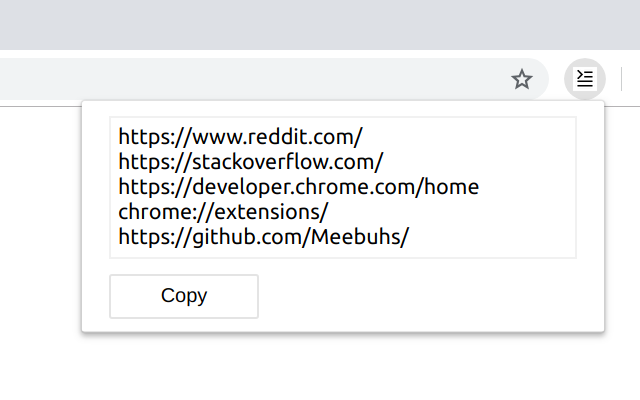
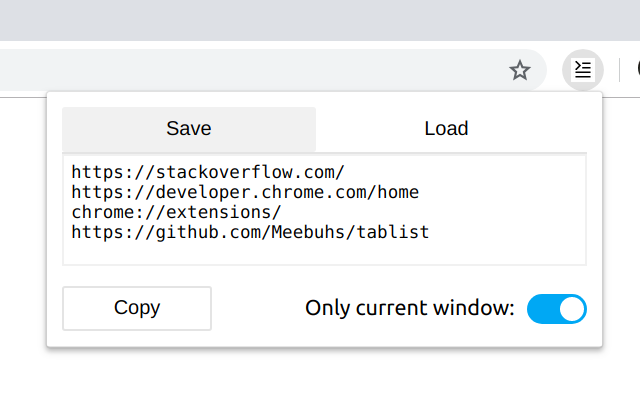
Add the ability to pull and restore tabs for multiple windows

Changed region(s): [[0.0, 0.09, 1.0, 0.9], [0.0938, 0.3, 0.9062, 0.63], [0.0, 0.24, 0.0938, 0.27]]

diff --git a/src/js/popup.js b/src/js/popup.js
@@ -1,29 +1,86 @@
 import "../css/popup.scss"
 
-const output = document.getElementById("output");
-const copyTabsPane = document.getElementById("copy-tabs");
-const loadTabsPane = document.getElementById("load-tabs");
+const output = document.getElementById("output"),
+    copyTabsPane = document.getElementById("copy-tab-pane"),
+    loadTabsPane = document.getElementById("load-tab-pane"),
+    copyTabButton = document.getElementById("copy-tab-button"),
+    loadTabButton = document.getElementById("load-tab-button"),
+    includeAllToggle = document.getElementById("include-all-toggle");
 
-// When the popup loads, populate the output with the list of urls
-window.onload = function() {
-    chrome.tabs.query({"currentWindow": true}, tabs => {
-      output.innerHTML = tabs.map(tab => tab.url).join("\n");
-
-      // Gets height on contents with a min of 60 and max of 200
-      const clampedHeight = Math.min(Math.max(60, output.scrollHeight), 200);
-      output.style.height = `${clampedHeight}px`;
-    });
-};
+const newline = "\n";
+const windowDelimiter = `${newline}---${newline}`;
 
 document.getElementById("copy").addEventListener("click", copyText);
-document.getElementById("load").addEventListener("click", loadTabs);
-document.getElementById("back-to-copy").addEventListener("click", backToCopy);
+copyTabButton.addEventListener("click", showCopyTab);
+loadTabButton.addEventListener("click", showLoadTab);
+includeAllToggle.addEventListener("click", populateOutput);
+
+// When the popup loads, populate the output with the list of urls
+window.onload = function () {
+    populateFromCurrentWindow();
+};
+
+// Populate the output
+function populateOutput() {
+    toggleIncludeAll();
+
+    if (includeAllToggle.getAttribute('checked')) {
+        populateFromCurrentWindow();
+    } else {
+        populateFromAllWindows();
+    }
+}
+
+// Toggles the checked value of the include all slider
+function toggleIncludeAll() {
+    includeAllToggle.getAttribute('checked') ?
+        includeAllToggle.removeAttribute('checked')
+        :
+        includeAllToggle.setAttribute('checked', 'true');
+}
+
+// Populate the list of tabs for the current window
+function populateFromCurrentWindow() {
+    chrome.tabs.query({"currentWindow": true}, tabs => {
+        output.innerHTML = tabs.map(tab => tab.url).join(newline);
+        setOutputHeight();
+    });
+
+}
+
+// Populate the list of tabs for all windows
+function populateFromAllWindows() {
+    let data = {};
+    chrome.tabs.query({}, tabs => {
+        tabs.map(tab => {
+            if (data[tab.windowId]) {
+                data[tab.windowId].push(tab.url);
+            } else {
+                data[tab.windowId] = [tab.url];
+            }
+
+        });
+
+        output.innerHTML = (Object.keys(data).map(key => data[key].join(newline)).join(windowDelimiter));
+        setOutputHeight();
+    })
+}
+
+// Gets height on contents with a min of 60 and max of 200
+function setOutputHeight() {
+    const clampedHeight = Math.min(Math.max(60, output.scrollHeight), 200);
+    output.style.height = `${clampedHeight}px`;
+}
 
 // Handles tab creation from pasted list
 function pasteHandler(e) {
     const pasteText = e.clipboardData.getData('Text');
-    const urls = pasteText.split("\n");
-    urls.map(url => chrome.tabs.create({ url }));
+    const windows = pasteText.split(windowDelimiter);
+    if (windows.length === 1) {
+        pasteText.split(newline).map(url => chrome.tabs.create({ url }))
+    } else {
+        windows.map(window => chrome.windows.create({url: window.split(newline)}));
+    }
 }
 
 // Selects the text within output and copies it to the clipboard
@@ -33,15 +90,19 @@ function copyText() {
 }
 
 // Displays the load tab
-function loadTabs() {
+function showLoadTab() {
     document.addEventListener("paste", pasteHandler);
     copyTabsPane.classList.add("hidden");
     loadTabsPane.classList.remove("hidden");
+    copyTabButton.classList.remove("selected");
+    loadTabButton.classList.add("selected");
 }
 
 // Displays the copy tab
-function backToCopy() {
+function showCopyTab() {
     document.removeEventListener("paste", pasteHandler);
     loadTabsPane.classList.add("hidden");
     copyTabsPane.classList.remove("hidden");
+    copyTabButton.classList.add("selected");
+    loadTabButton.classList.remove("selected");
 }

diff --git a/src/css/popup.scss b/src/css/popup.scss
@@ -7,37 +7,38 @@ body {
     margin: 10px;
 }
 
-#output {
-    width: $width - 2 * ($output-padding + $output-border-width);
-    color: black;
-    border: $output-border-width solid #f2f2f2;
-    overflow-y: scroll;
-    padding: $output-padding;
-    font-size: 1.2em;
-    white-space: pre;
+#tabs {
+    border-bottom: 1px solid #e5e5e5;
+    width: 100%;
 }
 
-::-webkit-scrollbar {
-    display: none;
-}
-
-.actions {
-    display: flex;
-    padding-top: 10px;
-    justify-content: space-between;
-}
-
-.action-button {
+%button {
     color: black;
     text-align: center;
     vertical-align: middle;
-    display: inline-block;
-    width: 100px;
     height: 30px;
     background-color: white;
-    border: 1px solid #e5e5e5;
     border-radius: 2px;
     cursor: pointer;
+    outline: none;
+}
+
+.selected {
+    background-color: #f2f2f2;
+}
+
+.tab-button {
+    @extend %button;
+    flex: 1;
+    width: ($width - 2 * ($output-padding + $output-border-width)) / 2;
+    border: none;
+}
+
+.action-button {
+    @extend %button;
+    width: 100px;
+    display: inline-block;
+    border: 1px solid #e5e5e5;
 
     &:hover {
         background-color: #f2f2f2;
@@ -48,7 +49,75 @@ body {
     }
 }
 
+#output {
+    width: $width - 2 * ($output-padding + $output-border-width);
+    color: black;
+    border: $output-border-width solid #f2f2f2;
+    overflow-y: scroll;
+    padding: $output-padding;
+    font-size: 1.2em;
+    white-space: pre;
+}
+
+.actions {
+    display: flex;
+    font-size: 1.2em;
+    padding-top: 10px;
+    line-height: 30px;
+    justify-content: space-between;
+}
+
+.switch {
+    position: relative;
+    top: 5px;
+    margin-left: 5px;
+    display: inline-block;
+    width: 40px;
+    height: 20px;
+
+    & input {
+        opacity: 0;
+        width: 0;
+        height: 0;
+    }
+}
+
+.slider {
+    position: absolute;
+    cursor: pointer;
+    top: 0;
+    left: 0;
+    right: 0;
+    bottom: 0;
+    background-color: #ccc;
+    transition: .4s;
+    border-radius: 20px;
+
+    &:before {
+        position: absolute;
+        content: "";
+        height: 16px;
+        width: 16px;
+        left: 2px;
+        bottom: 2px;
+        background-color: white;
+        transition: .4s;
+        border-radius: 50%;
+    }
+}
+
+input:checked + .slider {
+    background-color: #03a9f4;
+}
+
+input:checked + .slider:before {
+    transform: translateX(20px);
+}
 
 .hidden {
-    display: none;
+  display: none;
+}
+
+::-webkit-scrollbar {
+  display: none;
 }

diff --git a/src/popup.html b/src/popup.html
@@ -4,20 +4,27 @@
     <meta charset="UTF-8">
 </head>
 <body>
-    <div id="copy-tabs">
+    <div id="tabs">
+        <button id="copy-tab-button" class="tab-button selected">Save</button>
+        <button id="load-tab-button" class="tab-button">Load</button>
+    </div>
+    <div id="copy-tab-pane">
         <textarea id="output" readonly></textarea>
         <div class="actions">
             <button id="copy" class="action-button">Copy</button>
-            <button id="load" class="action-button">Load</button>
+            <div id="include-all-elements">
+                Only current window:
+                <label id="include-all" class="switch">
+                    <input type="checkbox" id="include-all-toggle" checked=false>
+                    <span class="slider"></span>
+                </label>
+            </div>
         </div>
     </div>
-    <div id="load-tabs" class="hidden">
+    <div id="load-tab-pane" class="hidden">
         <h3>Paste a list of URLs</h3>
-        <span>Each URL will open in a new tab</span>
+        <span>Each URL will open in a new tab. Multiple windows will be opened </span>
         <br />
-        <div class="actions">
-            <button id="back-to-copy" class="action-button">Back</button>
-        </div>
     </div>
 </body>
 </html>

diff --git a/CHANGELOG.md b/CHANGELOG.md
@@ -4,10 +4,14 @@ All notable changes to this project will be documented in this file.
 The format is based on [Keep a Changelog](https://keepachangelog.com/en/1.0.0/),
 and this project adheres to [Semantic Versioning](https://semver.org/spec/v2.0.0.html).
 
-## Unreleased
+## 0.3.0 2018-11-23
 ### Added
-- Ability to open tabs from a list of urls
+- Ability to open tabs from a list of urls [PR #3](https://github.com/Meebuhs/tablist/pull/3)
 - Webpack build pipeline with sass support
+- Ability to copy and load from current window or all windows
+
+### Fixed
+- Fix some output copying issues [PR #2](https://github.com/Meebuhs/tablist/pull/2)
 
 ## 0.2.0 - 2018-11-13
 ### Added

diff --git a/README.md b/README.md
@@ -1,5 +1,5 @@
 # Tablist
-A simple extension which creates a list of the tabs open in the current window. 
+A simple extension which creates a list of the tabs open in either the current window or all open windows. 
 Useful for storing links to resources or creating input for a scraper. 
 
 ![Tablist demo](docs/tablist-demo-640-400.png)
